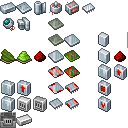
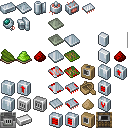
blasting and smoking upgrades for electric furnace

Changed region(s): [[0.375, 0.7812, 0.875, 1.0], [0.625, 0.5, 0.75, 0.75]]

diff --git a/src/main/java/io/github/reoseah/hayoind/block/entity/ElectricFurnaceBlockEntity.java b/src/main/java/io/github/reoseah/hayoind/block/entity/ElectricFurnaceBlockEntity.java
@@ -10,25 +10,38 @@ import net.minecraft.world.entity.player.Inventory;
 import net.minecraft.world.entity.player.Player;
 import net.minecraft.world.inventory.AbstractContainerMenu;
 import net.minecraft.world.item.ItemStack;
-import net.minecraft.world.item.crafting.RecipeHolder;
-import net.minecraft.world.item.crafting.RecipeType;
-import net.minecraft.world.item.crafting.SingleRecipeInput;
-import net.minecraft.world.item.crafting.SmeltingRecipe;
+import net.minecraft.world.item.crafting.*;
 import net.minecraft.world.level.Level;
 import net.minecraft.world.level.block.entity.AbstractFurnaceBlockEntity;
 import net.minecraft.world.level.block.state.BlockState;
+import net.minecraft.world.level.storage.ValueInput;
 import org.jetbrains.annotations.Nullable;
 
-public class ElectricFurnaceBlockEntity extends ProcessingMachineBlockEntity<SmeltingRecipe, SingleRecipeInput> {
+public class ElectricFurnaceBlockEntity extends ProcessingMachineBlockEntity<AbstractCookingRecipe, SingleRecipeInput> {
     public static final int TRANSFER_RATE = 32;
     public static final int ENERGY_USE_RATE = 3;
-    public static final int CAPACITY = AbstractFurnaceBlockEntity.BURN_TIME_STANDARD * ENERGY_USE_RATE * 3 / 4;
+    public static final int CAPACITY = getEnergyCost(AbstractFurnaceBlockEntity.BURN_TIME_STANDARD);
     public static final int INPUT_SLOT = 0;
     public static final int BATTERY_SLOT = 1;
     public static final int OUTPUT_SLOT = 2;
+    public static final int FIRST_UPGRADE_SLOT = 3;
+    public static final int UPGRADE_SLOTS = 4;
+
+    protected ElectricFurnaceMode mode = ElectricFurnaceMode.NORMAL;
+    protected RecipeManager.CachedCheck<SingleRecipeInput, ? extends AbstractCookingRecipe> quickCheck = RecipeManager.createCheck(RecipeType.SMELTING);
 
     public ElectricFurnaceBlockEntity(BlockPos pos, BlockState state) {
-        super(Hayo.BlockEntityTypes.ELECTRIC_FURNACE, RecipeType.SMELTING, pos, state);
+        super(Hayo.BlockEntityTypes.ELECTRIC_FURNACE, pos, state);
+    }
+
+    public static int getEnergyCost(int cookingTime) {
+        return cookingTime * ENERGY_USE_RATE * 3 / 4;
+    }
+
+    @SuppressWarnings("unchecked")
+    @Override
+    protected RecipeManager.CachedCheck<SingleRecipeInput, AbstractCookingRecipe> getRecipeCache() {
+        return (RecipeManager.CachedCheck<SingleRecipeInput, AbstractCookingRecipe>) this.quickCheck;
     }
 
     @Override
@@ -47,17 +60,47 @@ public class ElectricFurnaceBlockEntity extends ProcessingMachineBlockEntity<Sme
     }
 
     @Override
-    public void setItem(int slot, ItemStack stack) {
-        if (slot == INPUT_SLOT) {
-            var oldStack = this.stacks.get(slot);
+    protected void loadAdditional(ValueInput input) {
+        super.loadAdditional(input);
+        this.mode = getRecipeMode(this.stacks);
+        this.quickCheck = RecipeManager.createCheck(this.mode.recipeType);
+    }
 
-            super.setItem(slot, stack);
-            if (!ItemStack.isSameItemSameComponents(stack, oldStack) && this.level instanceof ServerLevel serverLevel) {
-                resetRecipe(serverLevel, this, ElectricFurnaceBehavior.INSTANCE);
+    @Override
+    public void setItem(int slot, ItemStack stack) {
+        if (this.level instanceof ServerLevel serverLevel) {
+            if (slot == INPUT_SLOT) {
+                var oldStack = this.stacks.get(slot);
+
+                super.setItem(slot, stack);
+                if (!ItemStack.isSameItemSameComponents(stack, oldStack)) {
+                    resetRecipe(serverLevel, this, ElectricFurnaceBehavior.INSTANCE);
+                }
+            } else if (slot >= FIRST_UPGRADE_SLOT) {
+                super.setItem(slot, stack);
+
+                var mode = getRecipeMode(this.stacks);
+                if (mode != this.mode) {
+                    this.mode = mode;
+                    this.quickCheck = RecipeManager.createCheck(mode.recipeType);
+                    resetRecipe(serverLevel, this, ElectricFurnaceBehavior.INSTANCE);
+                }
             }
-        } else {
-            super.setItem(slot, stack);
         }
+
+        super.setItem(slot, stack);
+    }
+
+    protected static ElectricFurnaceMode getRecipeMode(NonNullList<ItemStack> stacks) {
+        for (int i = FIRST_UPGRADE_SLOT; i < FIRST_UPGRADE_SLOT + UPGRADE_SLOTS; i++) {
+            var stack = stacks.get(i);
+            if (stack.is(Hayo.Items.BLASTING_UPGRADE)) {
+                return ElectricFurnaceMode.BLASTING;
+            } else if (stack.is(Hayo.Items.SMOKING_UPGRADE)) {
+                return ElectricFurnaceMode.SMOKING;
+            }
+        }
+        return ElectricFurnaceMode.NORMAL;
     }
 
     public static void tickServer(Level level, BlockPos pos, BlockState state, ElectricFurnaceBlockEntity entity) {
@@ -65,7 +108,7 @@ public class ElectricFurnaceBlockEntity extends ProcessingMachineBlockEntity<Sme
         tickProcessing((ServerLevel) level, pos, state, entity, ElectricFurnaceBehavior.INSTANCE);
     }
 
-    public enum ElectricFurnaceBehavior implements SingleProcessingBehavior<SmeltingRecipe> {
+    public enum ElectricFurnaceBehavior implements SingleProcessingBehavior<AbstractCookingRecipe> {
         INSTANCE;
 
         @Override
@@ -74,8 +117,18 @@ public class ElectricFurnaceBlockEntity extends ProcessingMachineBlockEntity<Sme
         }
 
         @Override
-        public int getRecipeEnergy(RecipeHolder<SmeltingRecipe> recipe) {
-            return recipe.value().cookingTime() * ENERGY_USE_RATE * 3 / 4;
+        public int getRecipeEnergy(RecipeHolder<AbstractCookingRecipe> recipe) {
+            return getEnergyCost(recipe.value().cookingTime());
+        }
+    }
+
+    public enum ElectricFurnaceMode {
+        NORMAL(RecipeType.SMELTING), BLASTING(RecipeType.BLASTING), SMOKING(RecipeType.SMOKING);
+
+        public final RecipeType<? extends AbstractCookingRecipe> recipeType;
+
+        ElectricFurnaceMode(RecipeType<? extends AbstractCookingRecipe> recipeType) {
+            this.recipeType = recipeType;
         }
     }
 }

diff --git a/src/main/java/io/github/reoseah/hayoind/Hayo.java b/src/main/java/io/github/reoseah/hayoind/Hayo.java
@@ -93,8 +93,8 @@ public class Hayo {
         BiomeModifications.create(ResourceLocation.fromNamespaceAndPath("hayoind", "features")) //
                 .add(ModificationPhase.ADDITIONS, BiomeSelectors.tag(BiomeTags.IS_FOREST) //
                                 .or(BiomeSelectors.tag(BiomeTags.IS_TAIGA)) //
-                                .or(BiomeSelectors.includeByKey(Biomes.SWAMP)) //
-                                .or(BiomeSelectors.tag(BiomeTags.IS_JUNGLE)), //
+                                .or(BiomeSelectors.tag(BiomeTags.IS_JUNGLE)) //
+                                .or(BiomeSelectors.includeByKey(Biomes.SWAMP)), //
                         (selectionCtx, modificationCtx) -> {
                             modificationCtx.getGenerationSettings().addFeature(GenerationStep.Decoration.VEGETAL_DECORATION, modKey(Registries.PLACED_FEATURE, "rubber_tree_patch"));
                         });
@@ -133,7 +133,7 @@ public class Hayo {
         public static final Block AUTOMATED_FERTILIZER = register("automated_fertilizer", AutomatedFertilizerBlock::new, MACHINES);
         public static final Block ENERGY_CRYSTAL_ARRAY = register("energy_crystal_array", EnergyCrystalArrayBlock::new, MACHINES);
 
-        public static final Block CHIPBOARD = register("chipboard", Block::new, BlockBehaviour.Properties.of().strength(3F).sound(SoundType.WOOD));
+        public static final Block CHIPBOARD = register("chipboard", Block::new, BlockBehaviour.Properties.of().strength(3F).sound(SoundType.WOOD).mapColor(MapColor.WOOD));
         private static final BlockBehaviour.Properties REINFORCED_BLOCKS = BlockBehaviour.Properties.of().strength(3F).sound(SoundType.STONE).mapColor(MapColor.DEEPSLATE);
         public static final Block REINFORCED_STONE = register("reinforced_stone", Block::new, REINFORCED_BLOCKS);
         public static final Block REINFORCED_GLASS = register("reinforced_glass", TransparentBlock::new, BlockBehaviour.Properties.of().strength(3F).noOcclusion().sound(SoundType.GLASS));
@@ -225,6 +225,8 @@ public class Hayo {
         public static final Item REDSTONE_FLUX_LASER = registerItem("redstone_flux_laser", new Item.Properties().rarity(Rarity.RARE));
         public static final Item OVERCLOCK_UPGRADE = registerItem("overclock_upgrade", new Item.Properties().rarity(Rarity.RARE).stacksTo(16));
         public static final Item CAPACITOR_UPGRADE = registerItem("capacitor_upgrade", new Item.Properties().rarity(Rarity.RARE).stacksTo(16));
+        public static final Item BLASTING_UPGRADE = registerItem("blasting_upgrade", new Item.Properties().rarity(Rarity.RARE).stacksTo(16));
+        public static final Item SMOKING_UPGRADE = registerItem("smoking_upgrade", new Item.Properties().rarity(Rarity.RARE).stacksTo(16));
 
         public static final Item BATTERY = registerItem("battery", properties -> new SimpleBatteryItem(properties, 10000, 10));
         public static final Item ENERGY_CRYSTAL = registerItem("energy_crystal", properties -> new SimpleBatteryItem(properties, 100000, 100), new Item.Properties().rarity(Rarity.RARE));
@@ -298,6 +300,8 @@ public class Hayo {
                 entries.accept(REDSTONE_FLUX_LASER);
                 entries.accept(OVERCLOCK_UPGRADE);
                 entries.accept(CAPACITOR_UPGRADE);
+                entries.accept(BLASTING_UPGRADE);
+                entries.accept(SMOKING_UPGRADE);
 
                 entries.accept(BATTERY);
                 entries.accept(Util.make(new ItemStack(BATTERY), stack -> stack.set(SimpleBatteryItem.ENERGY, 10000)));

diff --git a/src/main/java/io/github/reoseah/hayoind/block/entity/ProcessingMachineBlockEntity.java b/src/main/java/io/github/reoseah/hayoind/block/entity/ProcessingMachineBlockEntity.java
@@ -15,17 +15,14 @@ import net.minecraft.world.level.storage.ValueInput;
 import net.minecraft.world.level.storage.ValueOutput;
 import org.jetbrains.annotations.Nullable;
 
-public abstract class ProcessingMachineBlockEntity<R extends Recipe<I>, I extends RecipeInput> extends HayoElectricBlockEntity {
-    protected final RecipeManager.CachedCheck<I, R> quickCheck;
-
+public abstract class ProcessingMachineBlockEntity<R extends Recipe<I>, I extends RecipeInput> extends ElectricBlockEntity {
     @Getter
     protected int recipeUsedEnergy;
     @Getter
     protected int recipeTotalEnergy;
 
-    public ProcessingMachineBlockEntity(BlockEntityType<?> type, RecipeType<R> recipeType, BlockPos pos, BlockState state) {
+    public ProcessingMachineBlockEntity(BlockEntityType<?> type, BlockPos pos, BlockState state) {
         super(type, pos, state);
-        this.quickCheck = RecipeManager.createCheck(recipeType);
     }
 
     @Override
@@ -42,10 +39,12 @@ public abstract class ProcessingMachineBlockEntity<R extends Recipe<I>, I extend
         this.recipeTotalEnergy = input.getIntOr("recipe_total_energy", 0);
     }
 
+    protected abstract RecipeManager.CachedCheck<I, R> getRecipeCache();
+
     public static <R extends Recipe<I>, I extends RecipeInput> void resetRecipe(ServerLevel level, ProcessingMachineBlockEntity<R, I> entity, ProcessingBehavior<R, I> behavior) {
         var recipeInput = behavior.createRecipeInput(entity.stacks);
 
-        var recipeHolder = entity.quickCheck.getRecipeFor(recipeInput, level).orElse(null);
+        var recipeHolder = entity.getRecipeCache().getRecipeFor(recipeInput, level).orElse(null);
         if (recipeHolder != null) {
             entity.recipeTotalEnergy = behavior.getRecipeEnergy(recipeHolder);
             entity.recipeUsedEnergy = 0;
@@ -64,7 +63,7 @@ public abstract class ProcessingMachineBlockEntity<R extends Recipe<I>, I extend
                 entity.setChanged();
             }
         } else {
-            var recipeHolder = entity.quickCheck.getRecipeFor(recipeInput, level).orElse(null);
+            var recipeHolder = entity.getRecipeCache().getRecipeFor(recipeInput, level).orElse(null);
 
             boolean hasEnergy = entity.storedEnergy >= behavior.getEnergyUseRate();
             if (hasEnergy && behavior.canCraft(level.registryAccess(), recipeHolder, recipeInput, entity.stacks)) {

diff --git a/src/main/java/io/github/reoseah/hayoind/block/entity/ElectricBlockEntity.java b/src/main/java/io/github/reoseah/hayoind/block/entity/ElectricBlockEntity.java
@@ -8,11 +8,11 @@ import net.minecraft.world.level.block.state.BlockState;
 import net.minecraft.world.level.storage.ValueInput;
 import net.minecraft.world.level.storage.ValueOutput;
 
-public abstract class HayoElectricBlockEntity extends HayoContainerBlockEntity {
+public abstract class ElectricBlockEntity extends HayoContainerBlockEntity {
     @Getter
     protected int storedEnergy;
 
-    public HayoElectricBlockEntity(BlockEntityType<?> type, BlockPos pos, BlockState state) {
+    public ElectricBlockEntity(BlockEntityType<?> type, BlockPos pos, BlockState state) {
         super(type, pos, state);
     }
 
@@ -28,7 +28,7 @@ public abstract class HayoElectricBlockEntity extends HayoContainerBlockEntity {
         this.storedEnergy = input.getIntOr("stored_energy", 0);
     }
 
-    public static void tickChargeFromSlot(HayoElectricBlockEntity entity, int slot, int capacity, int transferRate) {
+    public static void tickChargeFromSlot(ElectricBlockEntity entity, int slot, int capacity, int transferRate) {
         int max = Math.min(capacity - entity.storedEnergy, transferRate);
         if (max != 0) {
             int charge = ElectricItems.tryDischarge(max, entity, slot);

diff --git a/src/main/java/io/github/reoseah/hayoind/block/entity/MaceratorBlockEntity.java b/src/main/java/io/github/reoseah/hayoind/block/entity/MaceratorBlockEntity.java
@@ -12,6 +12,7 @@ import net.minecraft.world.entity.player.Player;
 import net.minecraft.world.inventory.AbstractContainerMenu;
 import net.minecraft.world.item.ItemStack;
 import net.minecraft.world.item.crafting.RecipeHolder;
+import net.minecraft.world.item.crafting.RecipeManager;
 import net.minecraft.world.item.crafting.SingleRecipeInput;
 import net.minecraft.world.level.Level;
 import net.minecraft.world.level.block.state.BlockState;
@@ -25,8 +26,15 @@ public class MaceratorBlockEntity extends ProcessingMachineBlockEntity<Maceratin
     public static final int BATTERY_SLOT = 1;
     public static final int OUTPUT_SLOT = 2;
 
+    protected final RecipeManager.CachedCheck<SingleRecipeInput, MaceratingRecipe> quickCheck = RecipeManager.createCheck(Hayo.RecipeTypes.MACERATING);
+
     public MaceratorBlockEntity(BlockPos pos, BlockState state) {
-        super(Hayo.BlockEntityTypes.MACERATOR, Hayo.RecipeTypes.MACERATING, pos, state);
+        super(Hayo.BlockEntityTypes.MACERATOR, pos, state);
+    }
+
+    @Override
+    protected RecipeManager.CachedCheck<SingleRecipeInput, MaceratingRecipe> getRecipeCache() {
+        return this.quickCheck;
     }
 
     @Override

diff --git a/src/main/java/io/github/reoseah/hayoind/block/ResinYieldingLogBlock.java b/src/main/java/io/github/reoseah/hayoind/block/ResinYieldingLogBlock.java
@@ -3,7 +3,9 @@ package io.github.reoseah.hayoind.block;
 import io.github.reoseah.hayoind.Hayo;
 import net.minecraft.core.BlockPos;
 import net.minecraft.core.Direction;
+import net.minecraft.core.registries.Registries;
 import net.minecraft.server.level.ServerLevel;
+import net.minecraft.tags.TagKey;
 import net.minecraft.util.RandomSource;
 import net.minecraft.world.InteractionResult;
 import net.minecraft.world.entity.player.Player;
@@ -13,6 +15,7 @@ import net.minecraft.world.level.Level;
 import net.minecraft.world.level.block.Block;
 import net.minecraft.world.level.block.Mirror;
 import net.minecraft.world.level.block.Rotation;
+import net.minecraft.world.level.block.entity.BlockEntityType;
 import net.minecraft.world.level.block.state.BlockState;
 import net.minecraft.world.level.block.state.StateDefinition;
 import net.minecraft.world.level.block.state.properties.BlockStateProperties;

diff --git a/src/main/java/io/github/reoseah/hayoind/recipe/ExtractingRecipe.java b/src/main/java/io/github/reoseah/hayoind/recipe/ExtractingRecipe.java
@@ -23,7 +23,7 @@ public record ExtractingRecipe(Ingredient input, //
     public static final MapCodec<ExtractingRecipe> CODEC = RecordCodecBuilder.mapCodec( //
             instance -> instance.group( //
                     Ingredient.CODEC.fieldOf("ingredient").forGetter(ExtractingRecipe::input), //
-                    ItemStack.STRICT_CODEC.listOf().fieldOf("result").forGetter(ExtractingRecipe::results), //
+                    ItemStack.STRICT_CODEC.listOf().fieldOf("results").forGetter(ExtractingRecipe::results), //
                     Codec.INT.fieldOf("processing_energy").orElse(DEFAULT_ENERGY).forGetter(ExtractingRecipe::processingEnergy) //
             ).apply(instance, ExtractingRecipe::new));
 

diff --git a/src/main/java/io/github/reoseah/hayoind/block/entity/GeneratorBlockEntity.java b/src/main/java/io/github/reoseah/hayoind/block/entity/GeneratorBlockEntity.java
@@ -19,7 +19,7 @@ import net.minecraft.world.level.storage.ValueInput;
 import net.minecraft.world.level.storage.ValueOutput;
 import org.jetbrains.annotations.Nullable;
 
-public class GeneratorBlockEntity extends HayoElectricBlockEntity {
+public class GeneratorBlockEntity extends ElectricBlockEntity {
     public static final int ENERGY_PER_FUEL_TICK = 5;
     public static final int FUEL_CONSUMPTION_RATE = 2;
     public static final int GENERATION_RATE = FUEL_CONSUMPTION_RATE * ENERGY_PER_FUEL_TICK;

diff --git a/src/main/java/io/github/reoseah/hayoind/block/entity/EnergyCrystalArrayBlockEntity.java b/src/main/java/io/github/reoseah/hayoind/block/entity/EnergyCrystalArrayBlockEntity.java
@@ -17,7 +17,7 @@ import net.minecraft.world.level.Level;
 import net.minecraft.world.level.block.state.BlockState;
 import org.jetbrains.annotations.Nullable;
 
-public class EnergyCrystalArrayBlockEntity extends HayoElectricBlockEntity implements MenuProvider {
+public class EnergyCrystalArrayBlockEntity extends ElectricBlockEntity implements MenuProvider {
     public static final int CAPACITY = 1_000_000;
     public static final int TRANSFER_RATE = 128;
 

diff --git a/src/main/java/io/github/reoseah/hayoind/recipe/MaceratingRecipe.java b/src/main/java/io/github/reoseah/hayoind/recipe/MaceratingRecipe.java
@@ -60,8 +60,13 @@ public record MaceratingRecipe(Ingredient input, //
     }
 
     @Override
+    public boolean isSpecial() {
+        return true;
+    }
+
+    @Override
     public RecipeBookCategory recipeBookCategory() {
-        return RecipeBookCategories.CRAFTING_MISC;
+        return null;
     }
 
     public static class Serializer implements RecipeSerializer<MaceratingRecipe> {
